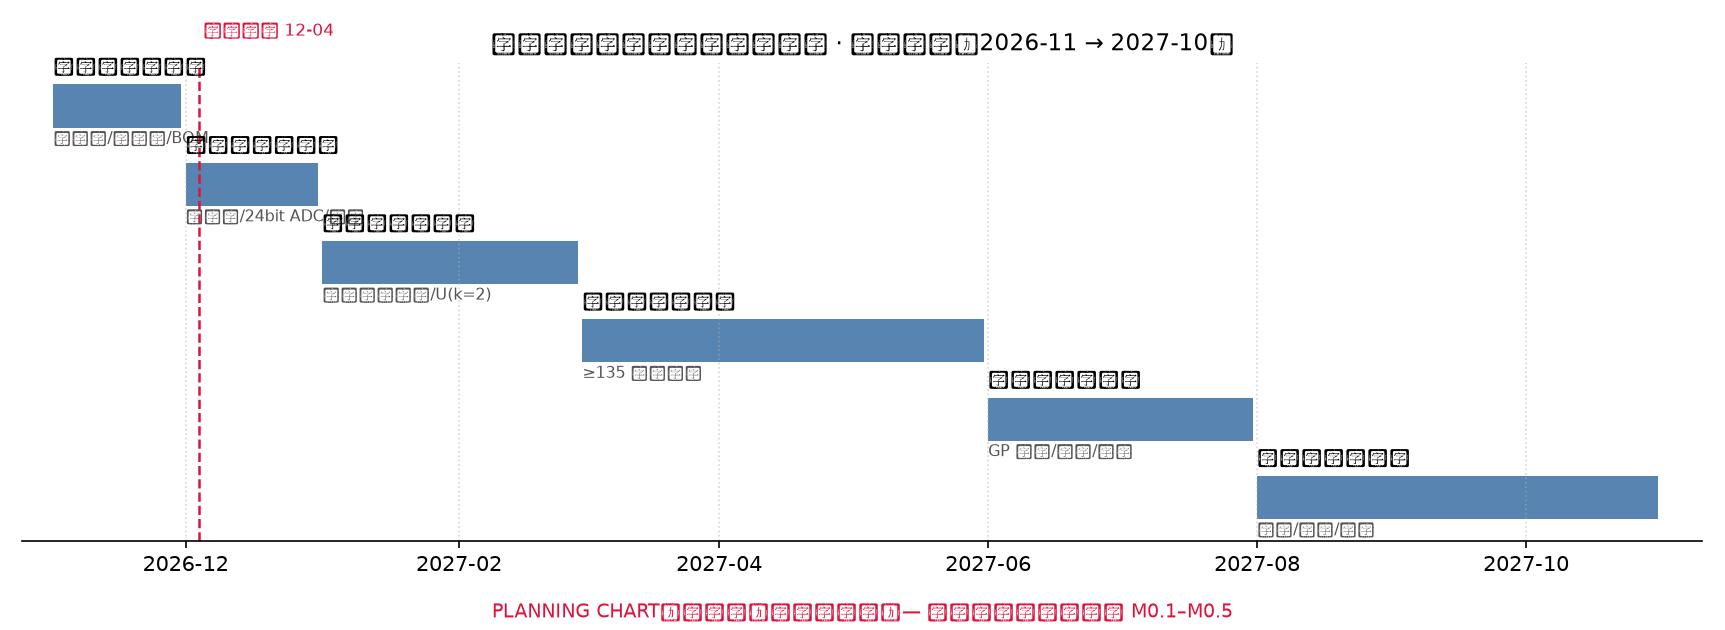
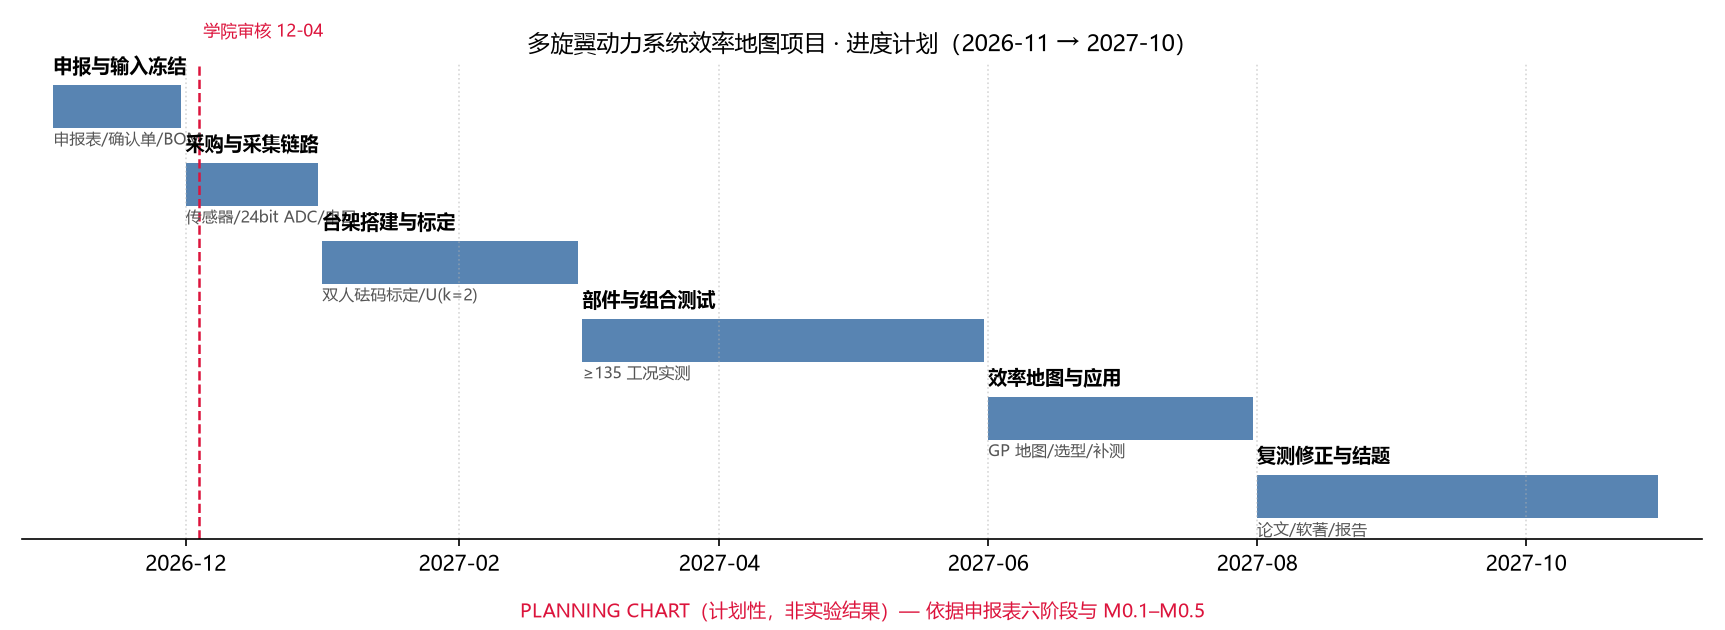
Round 38 fix: CJK font for Gantt chart

diff --git a/code/tools/plan_gantt.py b/code/tools/plan_gantt.py
@@ -9,6 +9,9 @@ import matplotlib
 matplotlib.use("Agg")
 import matplotlib.pyplot as plt  # noqa: E402
 import matplotlib.dates as mdates  # noqa: E402
+
+plt.rcParams["font.sans-serif"] = ["Microsoft YaHei", "SimHei", "DejaVu Sans"]
+plt.rcParams["axes.unicode_minus"] = False
 from datetime import date  # noqa: E402
 
 phases = [
